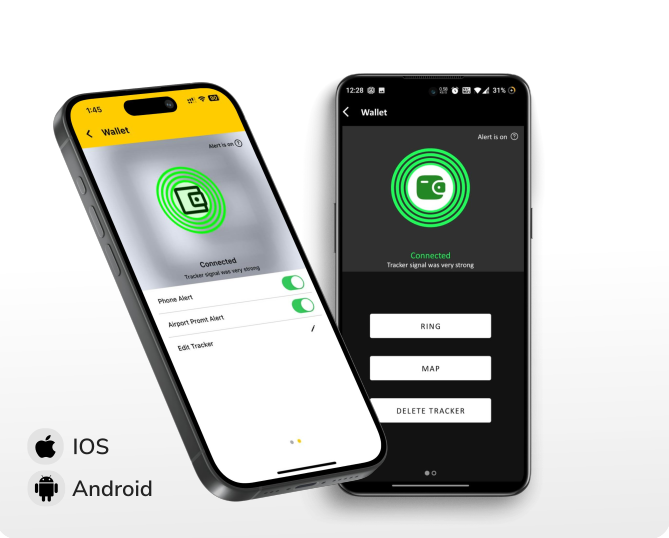
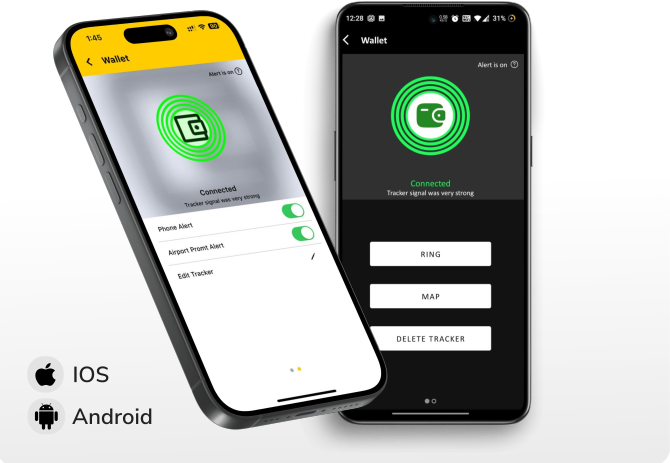
Add files via upload

diff --git a/index.css b/index.css
@@ -366,6 +366,7 @@
     margin-right: 400px;
     width: 400px;
     font-size: xx-large;
+    /* margin-top: 340px; */
 }
 
 .feature-info4 p {
@@ -397,7 +398,7 @@
     display: flex;
     justify-content: center;
     align-items: center;
-    /* margin-top: -25px; */
+    margin-top: -84px;
     margin-left:230px;
 }
 
